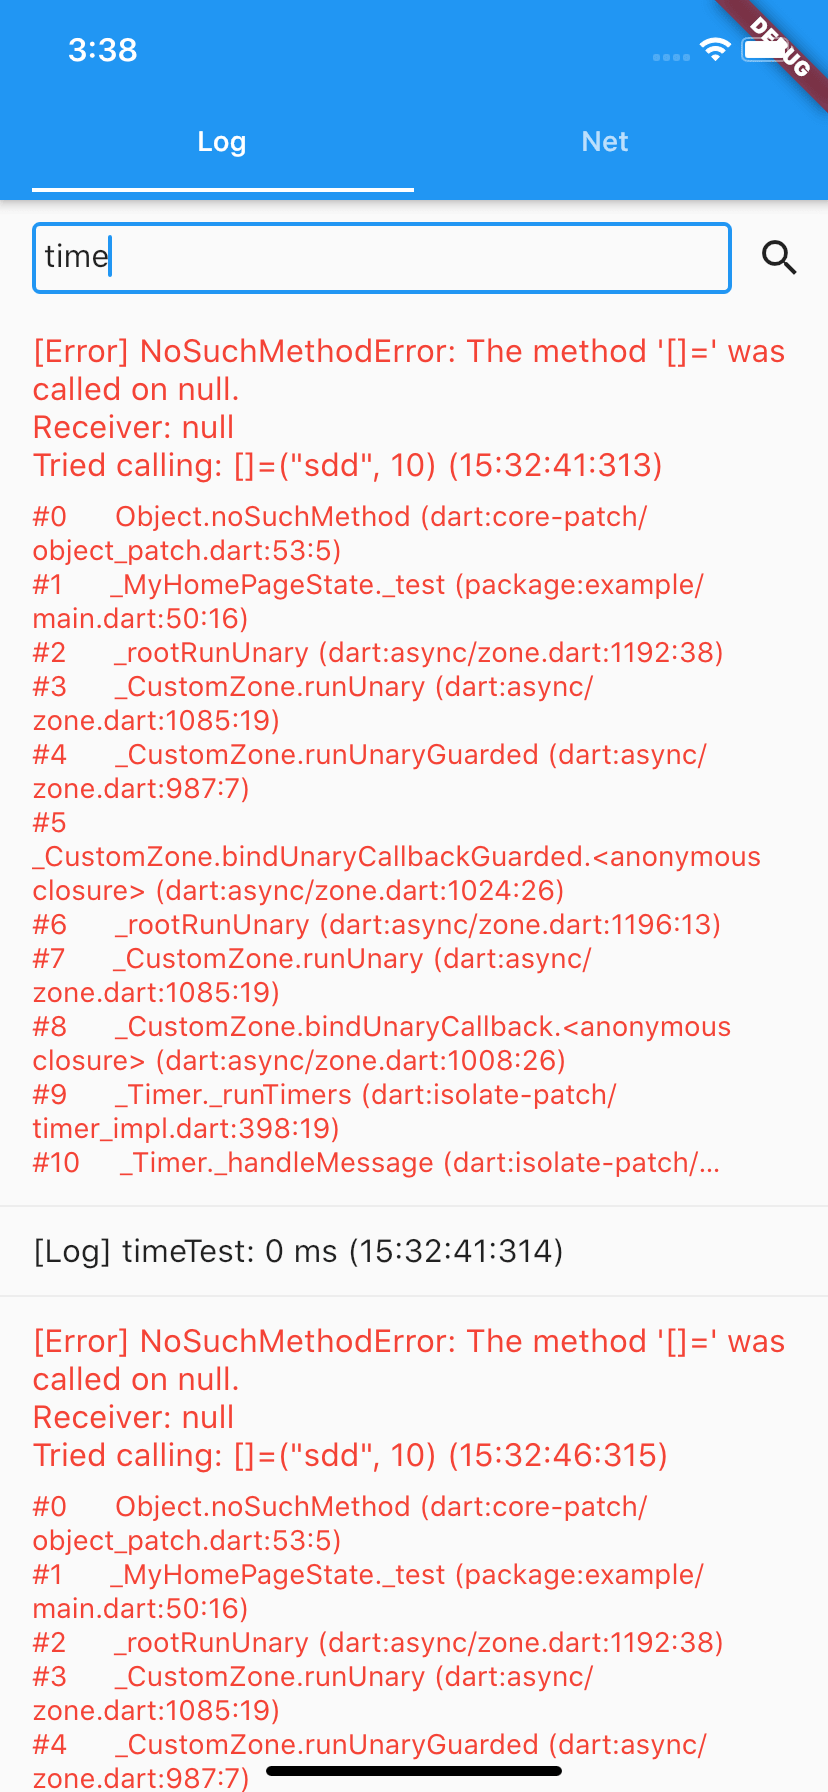
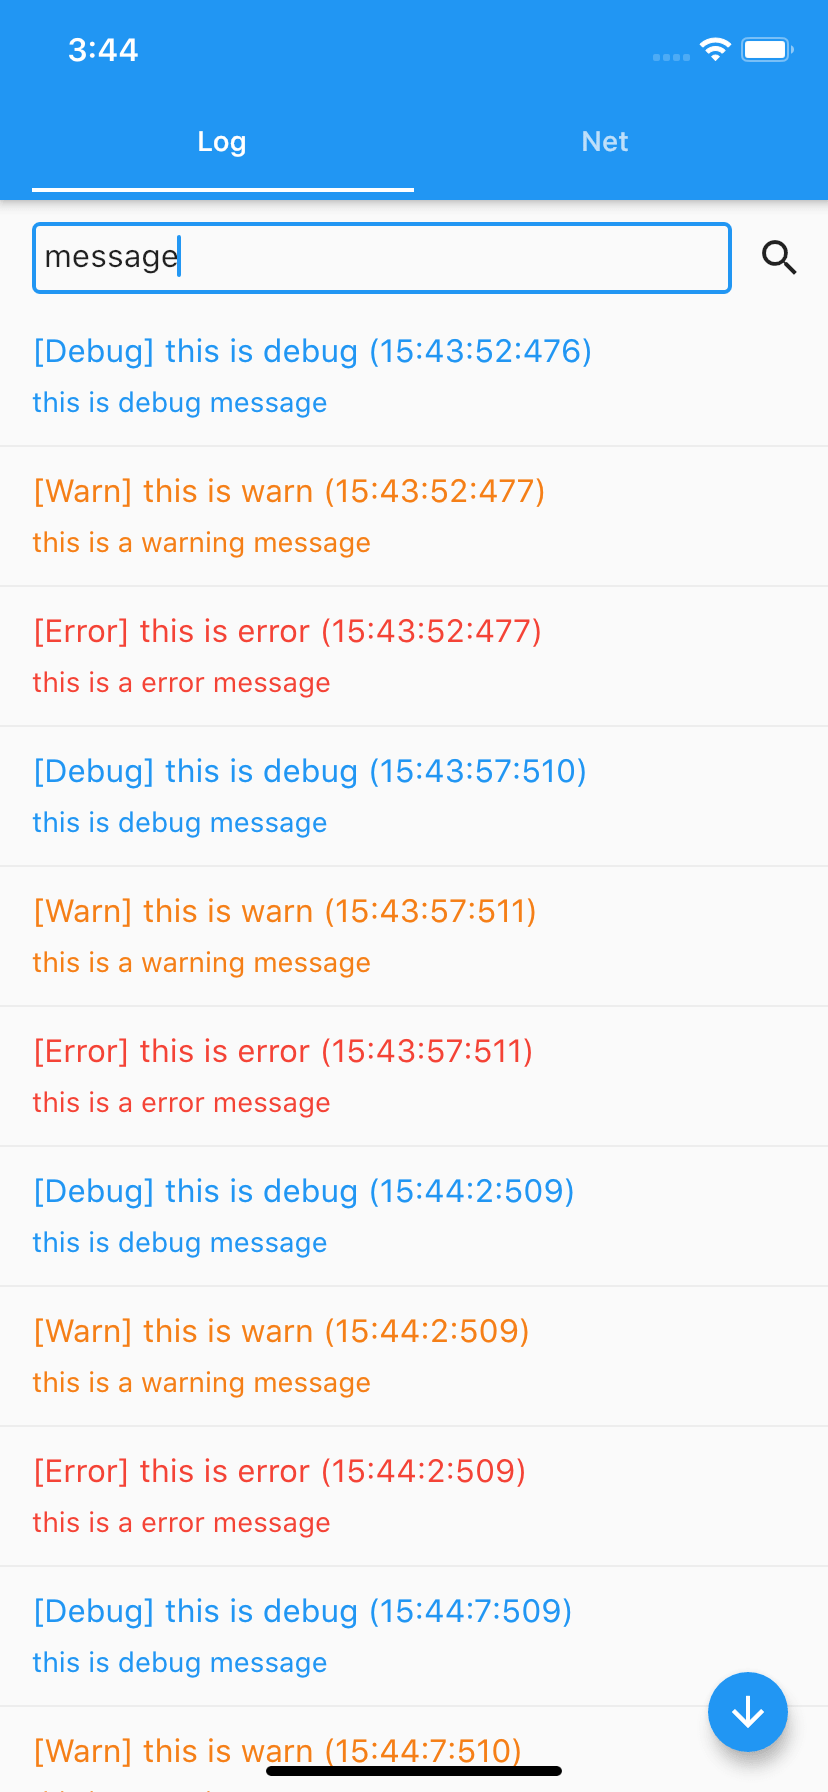
1.1.0

diff --git a/lib/let_log.dart b/lib/let_log.dart
@@ -1,7 +1,6 @@
 library let_log;
 
 import 'dart:convert';
-
 import 'package:flutter/material.dart';
 import 'package:flutter/services.dart';
 part 'log_widget.dart';
@@ -17,11 +16,19 @@ String _getTabName(int index) {
 }
 
 class _Config {
+  /// Whether to display the log in reverse order
   bool reverse = false;
+
+  /// Whether or not to print logs in the ide
   bool printNet = true;
+
+  /// Whether or not to print net logs in the ide
   bool printLog = true;
+
+  /// Maximum number of logs, larger than this number, will be cleaned up, default value 500
   int maxLimit = 500;
 
+  /// Set the names in ide print.
   void setPrintNames({
     String log,
     String debug,
@@ -40,6 +47,7 @@ class _Config {
     ];
   }
 
+  /// Set the names in the app.
   void setTabNames({
     String log,
     String debug,
@@ -84,41 +92,50 @@ class Logger extends StatelessWidget {
   static bool enabled = true;
   static _Config config = _Config();
 
+  /// Logging
   static void log(Object message, [Object detail]) {
     if (enabled) _Log.add(_Type.log, message, detail);
   }
 
+  /// Record debug information
   static void debug(Object message, [Object detail]) {
     if (enabled) _Log.add(_Type.debug, message, detail);
   }
 
+  /// Record warnning information
   static void warn(Object message, [Object detail]) {
     if (enabled) _Log.add(_Type.warn, message, detail);
   }
 
+  /// Record error information
   static void error(Object message, [Object detail]) {
     if (enabled) _Log.add(_Type.error, message, detail);
   }
 
+  /// Start recording time
   static void time(Object key) {
     assert(key != null);
     if (enabled) _Log.time(key);
   }
 
+  /// End of record time
   static void endTime(Object key) {
     assert(key != null);
     if (enabled) _Log.endTime(key);
   }
 
+  /// Clearance log
   static void clear() {
     _Log.clear();
   }
 
+  /// Recording network information
   static void net(String api, {String type = "Http", Object data}) {
     assert(api != null);
     if (enabled) _Net.request(api, type, data);
   }
 
+  /// End of record network information, with statistics on duration and size.
   static void endNet(String api,
       {int status = 200, Object data, Object head, String type}) {
     if (enabled) _Net.response(api, status, data, head, type);

diff --git a/lib/log_widget.dart b/lib/log_widget.dart
@@ -12,12 +12,14 @@ class _LogWidgetState extends State<LogWidget> {
   String _keyword = "";
   TextEditingController _textController;
   ScrollController _scrollController;
+  FocusNode _focusNode;
   bool _goDown = true;
 
   @override
   void initState() {
     _textController = TextEditingController(text: _keyword);
     _scrollController = ScrollController();
+    _focusNode = FocusNode();
     super.initState();
   }
 
@@ -47,14 +49,16 @@ class _LogWidgetState extends State<LogWidget> {
                   }).toList();
                 }
 
+                final len = logs.length;
                 return ListView.separated(
                   itemBuilder: (context, index) {
-                    final item = logs[index];
+                    final item = Logger.config.reverse
+                        ? logs[len - index - 1]
+                        : logs[index];
                     final color = _getColor(item.type, context);
                     return _buildItem(item, color);
                   },
-                  reverse: Logger.config.reverse,
-                  itemCount: logs.length,
+                  itemCount: len,
                   controller: _scrollController,
                   separatorBuilder: (context, index) {
                     return const Divider(
@@ -206,6 +210,7 @@ class _LogWidgetState extends State<LogWidget> {
               onPressed: () {
                 _showSearch = true;
                 setState(() {});
+                _focusNode.requestFocus();
               },
             ),
           ],
@@ -221,6 +226,7 @@ class _LogWidgetState extends State<LogWidget> {
                     contentPadding: EdgeInsets.all(6),
                   ),
                   controller: _textController,
+                  focusNode: _focusNode,
                 ),
               ),
             ),

diff --git a/lib/net_widget.dart b/lib/net_widget.dart
@@ -12,12 +12,14 @@ class _NetWidgetState extends State<NetWidget> {
   String _keyword = "";
   TextEditingController _textController;
   ScrollController _scrollController;
+  FocusNode _focusNode;
   bool _goDown = true;
 
   @override
   void initState() {
     _textController = TextEditingController(text: _keyword);
     _scrollController = ScrollController();
+    _focusNode = FocusNode();
     super.initState();
   }
 
@@ -56,12 +58,15 @@ class _NetWidgetState extends State<NetWidget> {
                   }).toList();
                 }
 
+                final len = logs.length;
                 return ListView.separated(
                   itemBuilder: (context, index) {
-                    final item = logs[index];
+                    final item = Logger.config.reverse
+                        ? logs[len - index - 1]
+                        : logs[index];
                     return _buildItem(item, context);
                   },
-                  itemCount: logs.length,
+                  itemCount: len,
                   controller: _scrollController,
                   reverse: Logger.config.reverse,
                   separatorBuilder: (context, index) {
@@ -280,6 +285,7 @@ class _NetWidgetState extends State<NetWidget> {
               onPressed: () {
                 _showSearch = true;
                 setState(() {});
+                _focusNode.requestFocus();
               },
             ),
           ],
@@ -295,6 +301,7 @@ class _NetWidgetState extends State<NetWidget> {
                     contentPadding: EdgeInsets.all(6),
                   ),
                   controller: _textController,
+                  focusNode: _focusNode,
                 ),
               ),
             ),

diff --git a/example/lib/main.dart b/example/lib/main.dart
@@ -28,18 +28,22 @@ class _MyHomePageState extends State<MyHomePage> {
   void initState() {
     // setting
     // Logger.enabled = false;
-    // Logger.config.maxLimit = 10;
+    // Logger.config.maxLimit = 50;
     // Logger.config.reverse = true;
     // Logger.config.printLog = false;
     // Logger.config.printNet = false;
+
+    // Set the names in ide print, can use emoji.
     // Logger.config.setPrintNames(
-    //   log: "😄",
-    //   debug: "🐛",
-    //   warn: "❗",
-    //   error: "❌",
-    //   request: "⬆",
-    //   response: "⬇",
+    //   log: "[😄Log]",
+    //   debug: "[🐛Debug]",
+    //   warn: "[❗Warn]",
+    //   error: "[❌Error]",
+    //   request: "[⬆Req]",
+    //   response: "[⬇Res]",
     // );
+
+    // Set the names in the app, can use emoji.
     // Logger.config.setTabNames(
     //   log: "😄",
     //   debug: "🐛",
@@ -69,8 +73,8 @@ class _MyHomePageState extends State<MyHomePage> {
 
     // test error
     try {
-      final aa = {};
-      aa["aaa"]["sdd"] = 10;
+      final test = {};
+      test["test"]["test"] = 1;
     } catch (a, e) {
       Logger.error(a, e);
     }

diff --git a/README.md b/README.md
@@ -1,6 +1,6 @@
 # let_log
 
-LetLog is a log system that supports both IDE and in-app display, and supports log and network
+LetLog is a logger that supports both IDE and in-app display, and supports log and network
 
 Language: [English](README.md) | [中文简体](README_ZH.md)
 
@@ -25,8 +25,8 @@ Logger.error("this is error", "this is a error message");
 
 // test error
 try {
-  final aa = {};
-  aa["aaa"]["sdd"] = 10;
+  final test = {};
+  test["test"]["test"] = 1;
 } catch (a, e) {
   Logger.error(a, e);
 }
@@ -76,7 +76,7 @@ Logger.endNet(
 
 ```dart
 Widget build(BuildContext context) {
-    return Logger();
+  return Logger();
 }
 ```
 
@@ -101,25 +101,29 @@ Custom category names
 ```dart
 // setting
 Logger.enabled = false;
-Logger.config.maxLimit = 10;
+Logger.config.maxLimit = 50;
 Logger.config.reverse = true;
-Logger.config.printLog = true;
-Logger.config.printNet = true;
+Logger.config.printLog = false;
+Logger.config.printNet = false;
+
+// Set the names in ide print, can use emoji.
 Logger.config.setPrintNames(
-    log: "😄",
-    debug: "🐛",
-    warn: "❗",
-    error: "❌",
-    request: "⬆",
-    response: "⬇",
+  log: "[😄Log]",
+  debug: "[🐛Debug]",
+  warn: "[❗Warn]",
+  error: "[❌Error]",
+  request: "[⬆Req]",
+  response: "[⬇Res]",
 );
+
+// Set the names in the app, can use emoji.
 Logger.config.setTabNames(
-    log: "😄",
-    debug: "🐛",
-    warn: "❗",
-    error: "❌",
-    request: "⬆",
-    response: "⬇",
+  log: "😄",
+  debug: "🐛",
+  warn: "❗",
+  error: "❌",
+  request: "⬆",
+  response: "⬇",
 );
 ```
 

diff --git a/README_ZH.md b/README_ZH.md
@@ -25,8 +25,8 @@ Logger.error("this is error", "this is a error message");
 
 // test error
 try {
-  final aa = {};
-  aa["aaa"]["sdd"] = 10;
+  final test = {};
+  test["test"]["test"] = 1;
 } catch (a, e) {
   Logger.error(a, e);
 }
@@ -76,7 +76,7 @@ Logger.endNet(
 
 ```dart
 Widget build(BuildContext context) {
-    return Logger();
+  return Logger();
 }
 ```
 
@@ -99,27 +99,31 @@ Widget build(BuildContext context) {
 自定义分类名称
 
 ```dart
-//setting
+// 个性设置
 Logger.enabled = false;
-Logger.config.maxLimit = 10;
+Logger.config.maxLimit = 50;
 Logger.config.reverse = true;
-Logger.config.printLog = true;
-Logger.config.printNet = true;
+Logger.config.printLog = false;
+Logger.config.printNet = false;
+
+// 设置在ide内打印的名称，可以使用表情
 Logger.config.setPrintNames(
-    log: "😄",
-    debug: "🐛",
-    warn: "❗",
-    error: "❌",
-    request: "⬆",
-    response: "⬇",
+  log: "[😄Log]",
+  debug: "[🐛Debug]",
+  warn: "[❗Warn]",
+  error: "[❌Error]",
+  request: "[⬆Req]",
+  response: "[⬇Res]",
 );
+
+// 设置在app内显示名称，可以使用表情
 Logger.config.setTabNames(
-    log: "😄",
-    debug: "🐛",
-    warn: "❗",
-    error: "❌",
-    request: "⬆",
-    response: "⬇",
+  log: "😄",
+  debug: "🐛",
+  warn: "❗",
+  error: "❌",
+  request: "⬆",
+  response: "⬇",
 );
 ```
 

diff --git a/CHANGELOG.md b/CHANGELOG.md
@@ -1,3 +1,9 @@
+## [1.1.0] - 2020-6-20
+
+-   Add up and down shortcut buttons
+
+-   Click on the search button and the input box automatically gets the focus
+
 ## [1.0.6] - 2020-6-19
 
 -   Add Configuration Options
